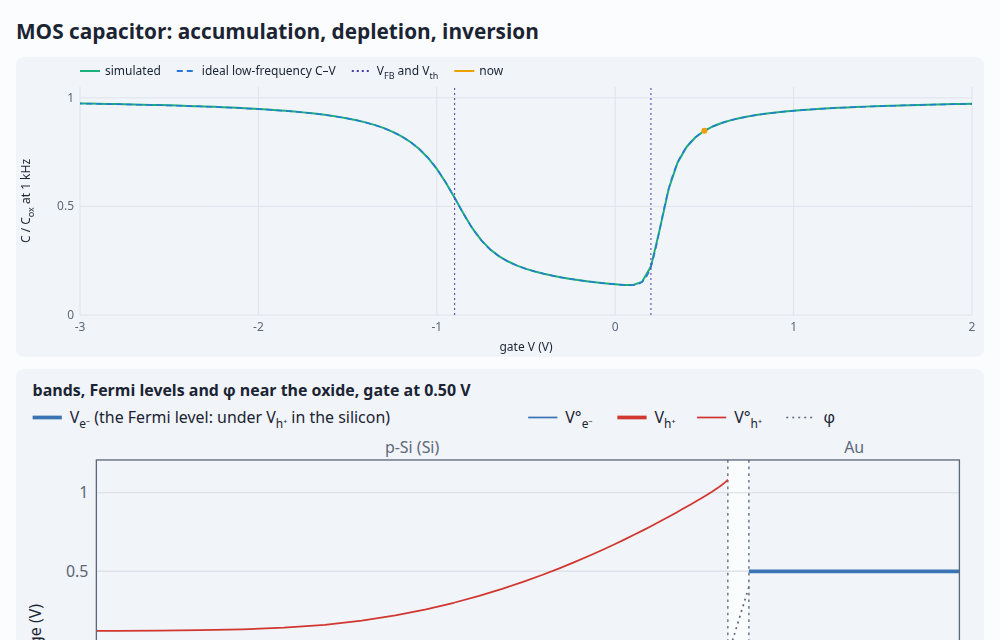
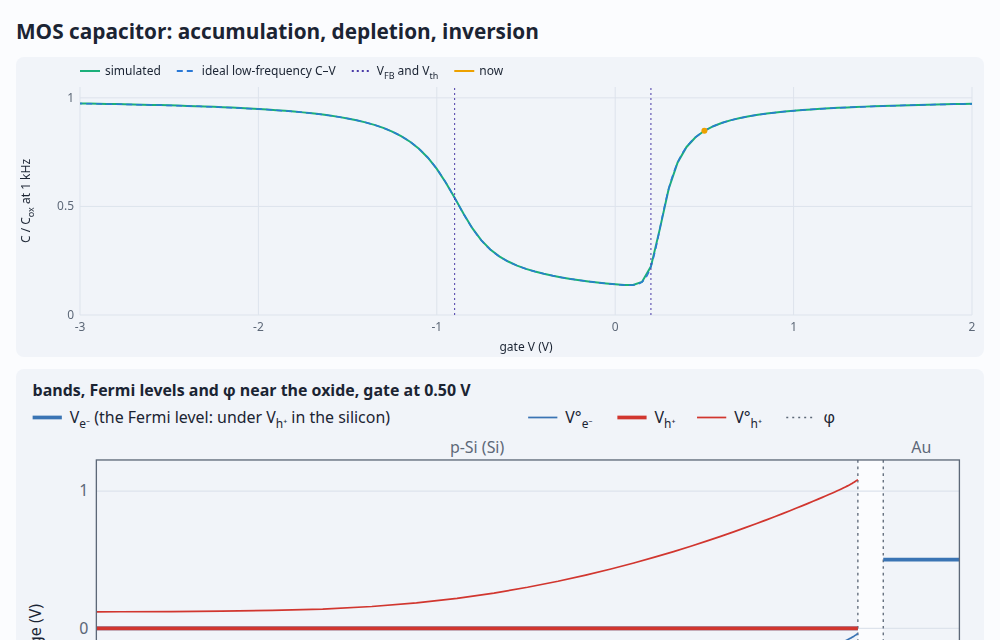
MOS demo: φ anchored at arbitrary offsets in the silicon and the oxide, drawn only there, and the text on what it shows and doesn't

diff --git a/demos/mos.html b/demos/mos.html
@@ -23,21 +23,30 @@
     <div class="levels wide" id="conc"></div>
   </div>
   <h2>About this simulation</h2>
-  <p>The gate voltage sets the gate metal's Fermi level; the silicon's bands bend at the surface to meet it,
-    and φ (dotted) drops straight across the oxide, its slope the oxide field. (In the silicon φ runs along
-    the conduction band edge, where the library's data anchor it.) The band diagram uses the <a
-    href="../docs/visualization.md">species voltage</a> V<sub>i</sub> = μ̄<sub>i</sub>/(z<sub>i</sub>F): a
-    species' electrochemical potential per unit charge, in volts, so electrons and ions share one axis: for
-    electrons and holes, their quasi-Fermi levels (thick), drawn with their standard levels V°<sub>i</sub>,
-    the band edges (thin). Negative bias pulls holes to the surface (accumulation), moderate positive bias
-    pushes them away (depletion), and beyond threshold electrons gather in a thin inversion layer. Those
-    electrons come from a port holding them at ground beside the oxide, the 1D stand-in for a transistor's
-    source and drain; without it, they'd have to diffuse in from the back contact, which takes minutes.</p>
+  <p>The gate voltage sets the gate metal's Fermi level, and the silicon's bands bend at the surface to meet
+    it. The band diagram uses the <a href="../docs/visualization.md">species voltage</a>
+    V<sub>i</sub> = μ̄<sub>i</sub>/(z<sub>i</sub>F): a species' electrochemical potential per unit charge, in
+    volts. For electrons and holes these are the quasi-Fermi levels (thick), drawn with their standard levels
+    V°<sub>i</sub>, the band edges (thin). Negative bias pulls holes to the surface (accumulation), moderate
+    positive bias pushes them away (depletion), and beyond threshold electrons gather in a thin inversion
+    layer. Those electrons come from a port holding them at ground beside the oxide, the 1D stand-in for a
+    transistor's source and drain; without it, they'd have to diffuse in from the back contact, which takes
+    minutes.</p>
+  <p>φ (dotted) is drawn in the silicon and across the oxide, to show what it is and what it isn't. In the
+    oxide, which holds no mobile charge, it's the only line there is, and its slope is the oxide field. In
+    the silicon the band edges ride on it, V°<sub>i</sub> = φ + μ°<sub>i</sub>/(z<sub>i</sub>F), so it bends
+    with them. But where it sits is a convention. This page anchors it 0.3 V below the silicon's conduction
+    band edge and steps it down 0.3 V into the oxide; the library's own data would put it on the band edge,
+    with no step. Any choice gives the same physics, once the gate's zeroCharge (the gate's Fermi level
+    minus φ beside it, when the gate is uncharged) changes to match: the capacitance comes out the same to
+    every digit. And φ doesn't meet the gate's Fermi level: a metal has no φ worth comparing, so the line
+    just stops.</p>
   <p>The capacitance at 1 kHz follows the ideal low-frequency C–V curve (dashed: the oxide in series with the
     silicon's dQ/dψ, from the closed-form surface charge), to four digits. Flat band is at
-    V<sub>FB</sub> = zeroCharge + φ<sub>bulk</sub>, set by the gate interface's work-function difference;
-    threshold is where the surface has inverted as strongly as the bulk is doped, ψ<sub>s</sub> = 2φ<sub>F</sub>.
-    More doping widens the window between them and deepens the dip.</p>
+    V<sub>FB</sub> = zeroCharge + dipole + φ<sub>bulk</sub>: each term depends on the anchoring, but their sum
+    doesn't, and it's set by the gate interface (a work-function difference). Threshold is where the surface
+    has inverted as strongly as the bulk is doped, ψ<sub>s</sub> = 2φ<sub>F</sub>. More doping widens the
+    window between them and deepens the dip.</p>
 </main>
 <script type="module">
 import { Device, EPS0, AVOGADRO, FARADAY, GAS_CONSTANT, units } from '../src/index.js';
@@ -45,16 +54,25 @@ import { build, layer, ohmic, semiconductor, metal, live } from '../src/kit.js';
 import { chart, colors } from './plot.js';
 import { levels, profiles, showCode, fromQuery } from './common.js';
 
-const Lsi = units.um(0.5), tox = units.nm(5), zeroCharge = 0.1;
+const Lsi = units.um(0.5), tox = units.nm(5);
+// φ is bookkeeping, and this page anchors it arbitrarily to show so. In the silicon it sits 0.3 V
+// below the conduction band edge (the library's data put it on the edge): μ°_e⁻ down and μ°_h⁺ up
+// by the same amount, so the gap, μ°_e⁻ + μ°_h⁺, is unchanged. It steps 0.3 V down into the oxide.
+// The gate's zeroCharge absorbs both (it would be 0.1 V with the library's anchoring), so the
+// physics is the same.
+const anchor = 0.3, dipole = -0.3, zeroCharge = 0.7;
+const silicon = semiconductor('Si');
+silicon.materials.Si.species['e-'].mu0 -= FARADAY * anchor;
+silicon.materials.Si.species['h+'].mu0 += FARADAY * anchor;
 const mos = (NA) =>
   build({
     T: 300,
-    library: [semiconductor('Si'), metal('Au')],
+    library: [silicon, metal('Au')],
     materials: { SiO2: { epsr: 3.9, species: {} } }, // an insulator: no mobile species
     stack: [
       ohmic(0), // the back contact
       layer('Si', Lsi, { name: 'p-Si', acceptors: NA }),
-      { dipole: 0 }, // Si | SiO2: φ continuous (the oxide has no levels of its own to align)
+      { dipole }, // Si | SiO2: any step will do, since the oxide has no levels of its own to align
       layer('SiO2', tox, { grid: { hmin: units.nm(0.5), hmax: units.nm(1) } }),
       // Oxide | gate metal. Its zeroCharge, the gate's Fermi level minus φ there when it's uncharged,
       // is a property of this interface (a work-function difference): it sets the flat-band voltage.
@@ -94,7 +112,7 @@ function ideal({ p0, n0, VFB }) {
 let cv;
 function sweep() {
   const dev = new Device(mos(NA())), rest = dev.solve(), bulk = Math.floor(rest.x.length / 5);
-  cv = { V: [], C: [], theory: ideal({ p0: rest.c['h+'][bulk], n0: rest.c['e-'][bulk], VFB: zeroCharge + rest.phi[bulk] }) };
+  cv = { V: [], C: [], theory: ideal({ p0: rest.c['h+'][bulk], n0: rest.c['e-'][bulk], VFB: zeroCharge + dipole + rest.phi[bulk] }) };
   for (let V = -3; V <= 2.001; V += 0.05) {
     dev.set({ contacts: { right: { V } } });
     cv.V.push(V);
@@ -131,10 +149,10 @@ function draw(sol) {
       { x: [V], y: [cv.C[Math.round((V + 3) / 0.05)]], color: colors[3], marker: true, width: 0, label: 'now' },
     ],
   });
-  const xlim = [Lsi - units.nm(150), sol.x.at(-1)];
+  const xlim = [Lsi - units.nm(150), Lsi + tox + units.nm(15)]; // the surface, the oxide and a little gate
   levels(document.getElementById('levels'), sol, {
     title: `bands, Fermi levels and φ near the oxide, gate at ${V.toFixed(2)} V`,
-    phi: true,
+    phi: ['p-Si', 'SiO2'], // not in the gate metal, which has no φ
     xlim,
     labels: { 'V:e-': 'V_{e⁻} (the Fermi level: under V_{h⁺} in the silicon)' },
   });

diff --git a/docs/visualization.md b/docs/visualization.md
@@ -205,11 +205,14 @@ There are two places where φ is the right line to draw:
   mobile lives there, the plain sloped φ line says it best: its slope is the field. It's also
   harmless to the reader, since there's no interfacial step in φ in view to mistake for something
   measurable, just a lone line connected to nothing else. The [MOS demo](../demos/mos.html) draws φ
-  across its oxide this way.
+  across its oxide this way. It draws φ in its silicon too, deliberately anchored at an
+  arbitrary offset from the band edges and stepping at the oxide's face, to show the band edges
+  riding on it while its position is a convention.
 - **In vacuum**, −eφ is exactly what it claims to be: the energy of an electron at rest there.
 
-`traces(sol, { phi: true })` draws φ. Besides the MOS oxide, the demos draw it only as the SHE's
-standard level in water, which is what it equals with the library's data.
+`traces(sol, { phi: true })` draws φ everywhere it's defined, and `phi: ['SiO2']` only in the
+regions named. Besides the MOS demo, the demos draw it only as the SHE's standard level in water,
+which is what it equals with the library's data.
 
 ### A reference
 
